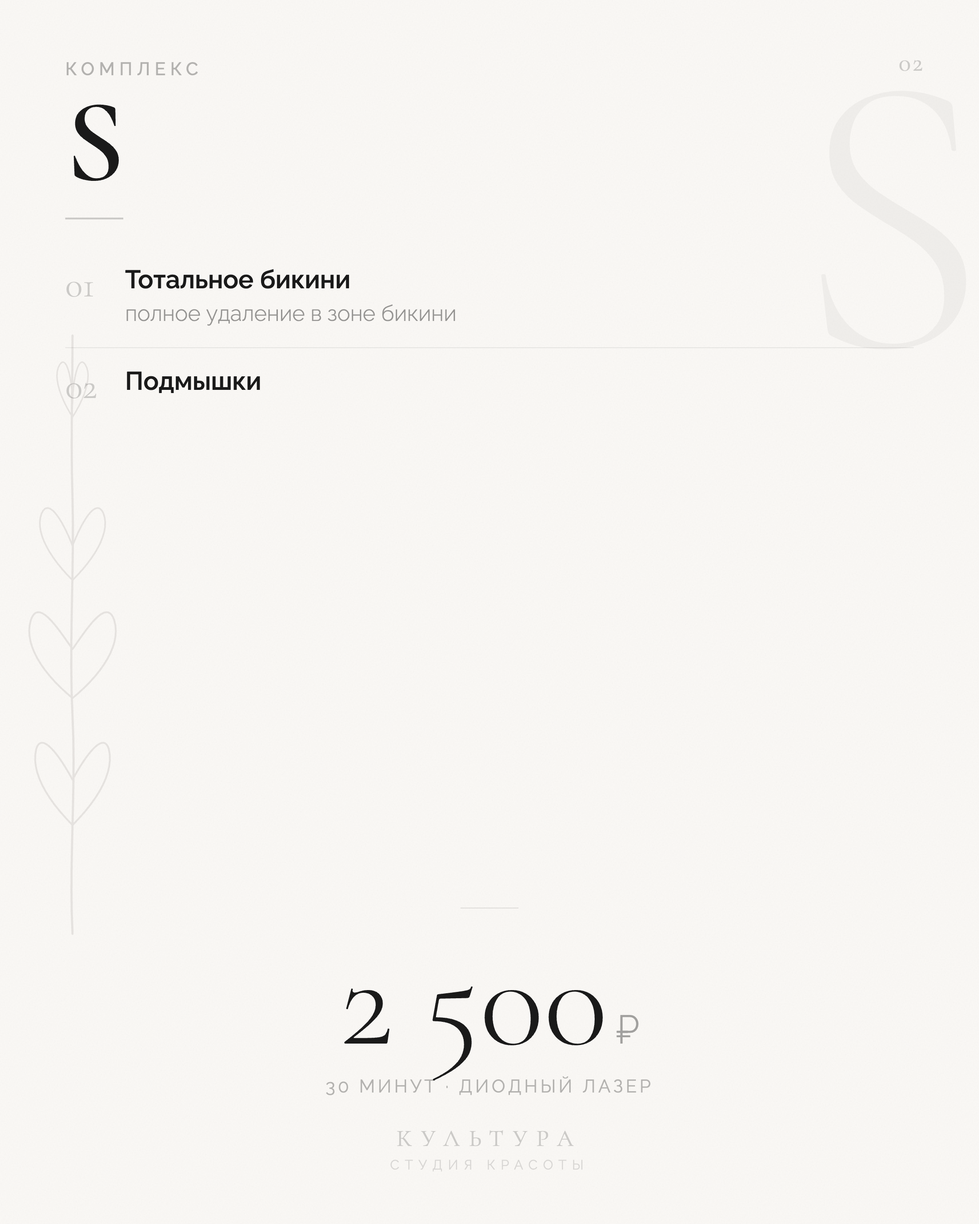
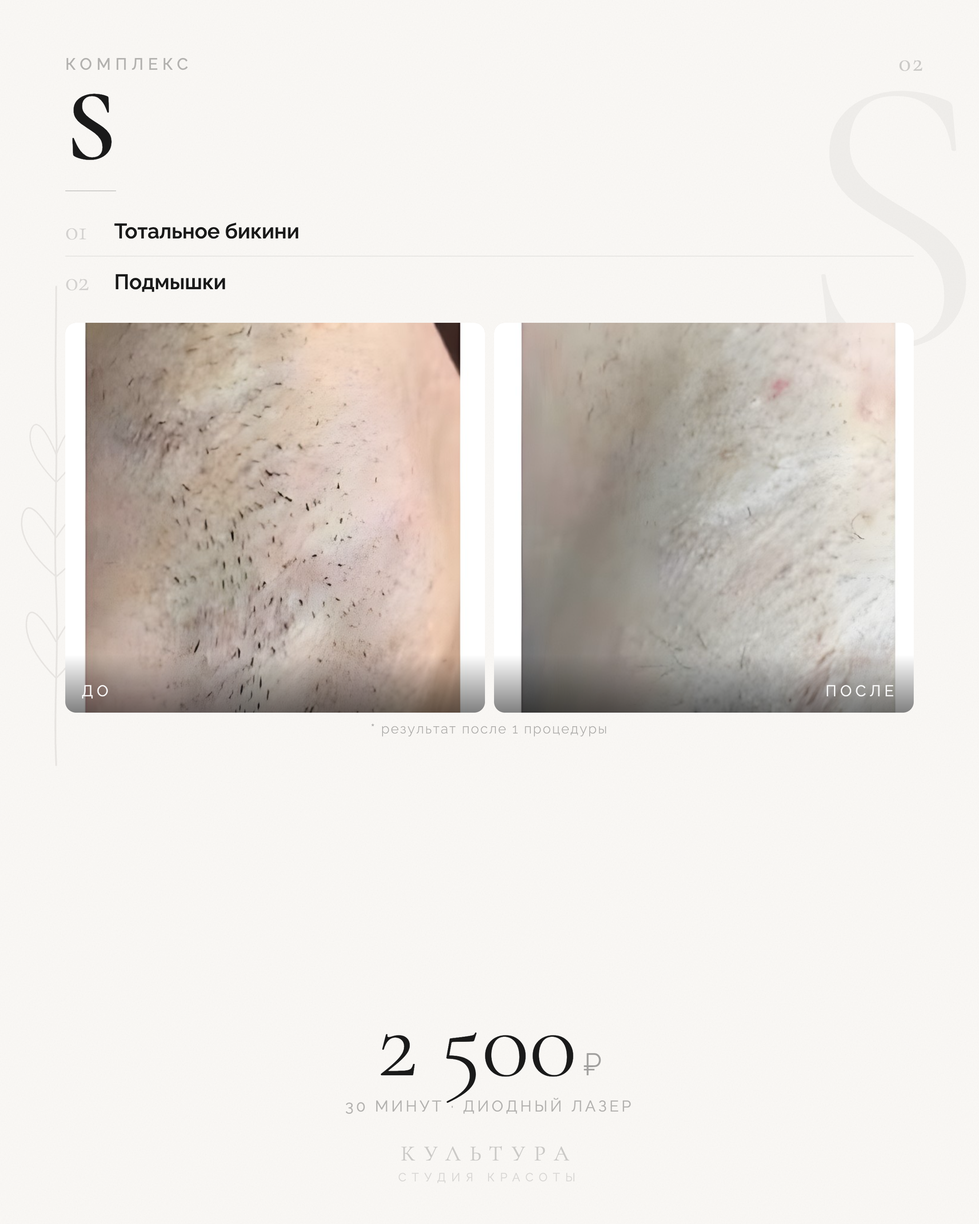
feat: add before/after photos to carousel slides 02/03/04
- assets/images/before-after/: cropped + esrgan-enhanced originals
- slides 02/03/04: before/after photo pair with До/После labels,
  footnote (* результат после X процедур), compact zone list
- tools/upscale-esrgan.mjs: CLI upscaler via fal.ai Real-ESRGAN

Photo mapping:
  slide 02 (S) ← подмышки, 1 процедура
  slide 03 (M) ← голени, 6 процедур
  slide 04 (L) ← подмышки, 4 процедуры

Changed region(s): [[0.062, 0.1867, 0.9306, 0.5911], [0.3412, 0.8089, 0.6514, 0.9644], [0.062, 0.0311, 0.1861, 0.1556]]

diff --git a/projects/BeautyCulture_DariaSopkina/posts/drafts/22_04_2026-1/kultura_slide_04.html b/projects/BeautyCulture_DariaSopkina/posts/drafts/22_04_2026-1/kultura_slide_04.html
@@ -14,7 +14,7 @@ body { font-family: 'Raleway', sans-serif; background: #FAF8F5; }
   </svg>
 
   <!-- Botanical left -->
-  <svg width="100" height="700" viewBox="0 0 50 350" style="position:absolute;left:30px;top:350px;opacity:0.10;pointer-events:none;z-index:1" xmlns="http://www.w3.org/2000/svg">
+  <svg width="80" height="560" viewBox="0 0 50 350" style="position:absolute;left:22px;top:300px;opacity:0.09;pointer-events:none;z-index:1" xmlns="http://www.w3.org/2000/svg">
     <path d="M25 340 C23 300 27 260 25 220 C23 180 26 140 25 100 C24 70 25 40 25 10" stroke="#3a3028" stroke-width="1.2" fill="none" stroke-linecap="round"/>
     <path d="M25 280 C10 265 2 250 5 238 C8 228 18 242 25 255" stroke="#3a3028" stroke-width="1" fill="none" stroke-linecap="round"/>
     <path d="M25 280 C40 265 48 250 45 238 C42 228 32 242 25 255" stroke="#3a3028" stroke-width="1" fill="none" stroke-linecap="round"/>
@@ -22,8 +22,6 @@ body { font-family: 'Raleway', sans-serif; background: #FAF8F5; }
     <path d="M25 210 C42 196 52 180 48 167 C44 155 34 170 25 183" stroke="#3a3028" stroke-width="1" fill="none" stroke-linecap="round"/>
     <path d="M25 145 C12 132 4 118 8 108 C12 99 20 113 25 126" stroke="#3a3028" stroke-width="0.9" fill="none" stroke-linecap="round"/>
     <path d="M25 145 C38 132 46 118 42 108 C38 99 30 113 25 126" stroke="#3a3028" stroke-width="0.9" fill="none" stroke-linecap="round"/>
-    <path d="M25 55 C18 44 14 32 18 26 C22 20 25 36 25 48" stroke="#3a3028" stroke-width="0.8" fill="none" stroke-linecap="round"/>
-    <path d="M25 55 C32 44 36 32 32 26 C28 20 25 36 25 48" stroke="#3a3028" stroke-width="0.8" fill="none" stroke-linecap="round"/>
   </svg>
 
   <!-- Ghost letter -->
@@ -33,54 +31,71 @@ body { font-family: 'Raleway', sans-serif; background: #FAF8F5; }
   <div style="position:absolute;top:52px;right:60px;font-family:'Cormorant Garamond',serif;font-size:28px;color:rgba(0,0,0,0.18);letter-spacing:2px;z-index:2">04</div>
 
   <!-- Content -->
-  <div style="position:absolute;inset:0;padding:64px 72px 130px;display:flex;flex-direction:column;z-index:2">
+  <div style="position:absolute;top:60px;left:72px;right:72px;bottom:120px;display:flex;flex-direction:column;z-index:2">
 
     <!-- Heading -->
-    <div style="font-family:'Raleway',sans-serif;font-size:20px;font-weight:500;letter-spacing:5px;text-transform:uppercase;color:rgba(0,0,0,0.28);margin-bottom:12px">Комплекс</div>
-    <div style="font-family:'Cormorant Garamond',serif;font-size:130px;font-weight:600;line-height:0.88;letter-spacing:2px;color:#1a1a1a;margin-bottom:0">L</div>
+    <div style="font-family:'Raleway',sans-serif;font-size:18px;font-weight:500;letter-spacing:5px;text-transform:uppercase;color:rgba(0,0,0,0.28);margin-bottom:10px">Комплекс</div>
+    <div style="font-family:'Cormorant Garamond',serif;font-size:112px;font-weight:600;line-height:0.88;letter-spacing:2px;color:#1a1a1a">L</div>
 
     <!-- Divider -->
-    <div style="width:64px;height:1.5px;background:rgba(0,0,0,0.18);margin:26px 0 30px"></div>
+    <div style="width:56px;height:1.5px;background:rgba(0,0,0,0.18);margin:20px 0 16px"></div>
 
-    <!-- Zones -->
-    <ul style="list-style:none;">
-      <li style="display:flex;align-items:flex-start;gap:24px;padding:20px 0;border-bottom:1px solid rgba(0,0,0,0.07);">
-        <span style="font-family:'Cormorant Garamond',serif;font-size:40px;font-weight:300;color:rgba(0,0,0,0.18);line-height:1;min-width:42px;padding-top:2px">01</span>
-        <div>
-          <div style="font-family:'Raleway',sans-serif;font-size:28px;font-weight:600;color:#1a1a1a;line-height:1.2">Тотальное бикини</div>
-        </div>
+    <!-- Zones compact -->
+    <ul style="list-style:none;margin-bottom:18px">
+      <li style="display:flex;align-items:center;gap:20px;padding:7px 0;border-bottom:1px solid rgba(0,0,0,0.07);">
+        <span style="font-family:'Cormorant Garamond',serif;font-size:30px;font-weight:300;color:rgba(0,0,0,0.15);min-width:34px">01</span>
+        <div style="font-family:'Raleway',sans-serif;font-size:23px;font-weight:600;color:#1a1a1a">Тотальное бикини</div>
       </li>
-      <li style="display:flex;align-items:flex-start;gap:24px;padding:20px 0;border-bottom:1px solid rgba(0,0,0,0.07);">
-        <span style="font-family:'Cormorant Garamond',serif;font-size:40px;font-weight:300;color:rgba(0,0,0,0.18);line-height:1;min-width:42px;padding-top:2px">02</span>
-        <div>
-          <div style="font-family:'Raleway',sans-serif;font-size:28px;font-weight:600;color:#1a1a1a;line-height:1.2">Подмышки</div>
-        </div>
+      <li style="display:flex;align-items:center;gap:20px;padding:7px 0;border-bottom:1px solid rgba(0,0,0,0.07);">
+        <span style="font-family:'Cormorant Garamond',serif;font-size:30px;font-weight:300;color:rgba(0,0,0,0.15);min-width:34px">02</span>
+        <div style="font-family:'Raleway',sans-serif;font-size:23px;font-weight:600;color:#1a1a1a">Подмышки</div>
       </li>
-      <li style="display:flex;align-items:flex-start;gap:24px;padding:20px 0;">
-        <span style="font-family:'Cormorant Garamond',serif;font-size:40px;font-weight:300;color:rgba(0,0,0,0.18);line-height:1;min-width:42px;padding-top:2px">03</span>
+      <li style="display:flex;align-items:center;gap:20px;padding:7px 0;">
+        <span style="font-family:'Cormorant Garamond',serif;font-size:30px;font-weight:300;color:rgba(0,0,0,0.15);min-width:34px">03</span>
         <div>
-          <div style="font-family:'Raleway',sans-serif;font-size:28px;font-weight:600;color:#1a1a1a;line-height:1.2">Ноги полностью</div>
-          <div style="font-size:24px;font-weight:300;color:rgba(0,0,0,0.4);margin-top:4px;line-height:1.4">бёдра + голени</div>
+          <div style="font-family:'Raleway',sans-serif;font-size:23px;font-weight:600;color:#1a1a1a">Ноги полностью</div>
+          <div style="font-size:19px;font-weight:300;color:rgba(0,0,0,0.38)">бёдра + голени</div>
         </div>
       </li>
     </ul>
 
-    <!-- Price — centered, dominant -->
-    <div style="margin-top:auto;text-align:center;padding-bottom:10px;">
-      <div style="width:64px;height:1px;background:rgba(0,0,0,0.10);margin:0 auto 28px"></div>
-      <div style="display:flex;align-items:baseline;gap:10px;justify-content:center">
-        <span style="font-family:'Cormorant Garamond',serif;font-size:148px;font-weight:300;color:#1a1a1a;line-height:1">3 700</span>
-        <span style="font-family:'Raleway',sans-serif;font-size:44px;font-weight:300;color:rgba(0,0,0,0.35)">₽</span>
+    <!-- Before / After photos -->
+    <div style="display:flex;gap:10px;height:390px;flex-shrink:0">
+
+      <!-- До -->
+      <div style="flex:1;position:relative;border-radius:12px;overflow:hidden;background:#e0d8d0">
+        <img src="./photo-04.jpg" style="position:absolute;top:0;left:0;width:200%;height:100%;object-fit:cover;object-position:left center;display:block">
+        <div style="position:absolute;bottom:0;left:0;right:0;height:64px;background:linear-gradient(to top,rgba(0,0,0,0.5),transparent)"></div>
+        <div style="position:absolute;bottom:14px;left:18px;font-family:'Raleway',sans-serif;font-size:17px;font-weight:400;letter-spacing:4px;text-transform:uppercase;color:rgba(255,255,255,0.92)">До</div>
       </div>
-      <div style="font-family:'Raleway',sans-serif;font-size:20px;font-weight:400;letter-spacing:3px;text-transform:uppercase;color:rgba(0,0,0,0.28);margin-top:8px">1 час · диодный лазер</div>
+
+      <!-- После -->
+      <div style="flex:1;position:relative;border-radius:12px;overflow:hidden;background:#e0d8d0">
+        <img src="./photo-04.jpg" style="position:absolute;top:0;right:0;width:200%;height:100%;object-fit:cover;object-position:right center;display:block">
+        <div style="position:absolute;bottom:0;left:0;right:0;height:64px;background:linear-gradient(to top,rgba(0,0,0,0.5),transparent)"></div>
+        <div style="position:absolute;bottom:14px;right:18px;font-family:'Raleway',sans-serif;font-size:17px;font-weight:400;letter-spacing:4px;text-transform:uppercase;color:rgba(255,255,255,0.92)">После</div>
+      </div>
+
+    </div>
+
+    <!-- Footnote -->
+    <div style="margin-top:9px;text-align:center;font-family:'Raleway',sans-serif;font-size:15px;font-weight:300;letter-spacing:1.5px;color:rgba(0,0,0,0.30)">* результат после 4 процедур</div>
+
+    <!-- Price -->
+    <div style="text-align:center;margin-top:auto">
+      <div style="display:flex;align-items:baseline;gap:8px;justify-content:center">
+        <span style="font-family:'Cormorant Garamond',serif;font-size:110px;font-weight:300;color:#1a1a1a;line-height:1">3 700</span>
+        <span style="font-family:'Raleway',sans-serif;font-size:34px;font-weight:300;color:rgba(0,0,0,0.35)">₽</span>
+      </div>
+      <div style="font-family:'Raleway',sans-serif;font-size:17px;font-weight:400;letter-spacing:3px;text-transform:uppercase;color:rgba(0,0,0,0.28);margin-top:4px">1 час · диодный лазер</div>
     </div>
 
   </div>
 
   <!-- Footer -->
-  <div style="position:absolute;bottom:56px;left:0;right:0;text-align:center;font-family:'Cormorant Garamond',serif;font-size:26px;font-weight:400;letter-spacing:10px;text-transform:uppercase;color:rgba(0,0,0,0.18);display:flex;flex-direction:column;align-items:center;gap:5px;z-index:2">
+  <div style="position:absolute;bottom:44px;left:0;right:0;text-align:center;font-family:'Cormorant Garamond',serif;font-size:24px;font-weight:400;letter-spacing:10px;text-transform:uppercase;color:rgba(0,0,0,0.18);display:flex;flex-direction:column;align-items:center;gap:4px;z-index:2">
     КУЛЬТУРА
-    <span style="font-family:'Raleway',sans-serif;font-size:15px;letter-spacing:6px;color:rgba(0,0,0,0.13)">СТУДИЯ КРАСОТЫ</span>
+    <span style="font-family:'Raleway',sans-serif;font-size:13px;letter-spacing:6px;color:rgba(0,0,0,0.13)">СТУДИЯ КРАСОТЫ</span>
   </div>
 
 </div>

diff --git a/projects/BeautyCulture_DariaSopkina/posts/drafts/22_04_2026-1/kultura_slide_03.html b/projects/BeautyCulture_DariaSopkina/posts/drafts/22_04_2026-1/kultura_slide_03.html
@@ -14,7 +14,7 @@ body { font-family: 'Raleway', sans-serif; background: #FAF8F5; }
   </svg>
 
   <!-- Botanical left -->
-  <svg width="100" height="700" viewBox="0 0 50 350" style="position:absolute;left:30px;top:350px;opacity:0.10;pointer-events:none;z-index:1" xmlns="http://www.w3.org/2000/svg">
+  <svg width="80" height="560" viewBox="0 0 50 350" style="position:absolute;left:22px;top:300px;opacity:0.09;pointer-events:none;z-index:1" xmlns="http://www.w3.org/2000/svg">
     <path d="M25 340 C23 300 27 260 25 220 C23 180 26 140 25 100 C24 70 25 40 25 10" stroke="#3a3028" stroke-width="1.2" fill="none" stroke-linecap="round"/>
     <path d="M25 280 C10 265 2 250 5 238 C8 228 18 242 25 255" stroke="#3a3028" stroke-width="1" fill="none" stroke-linecap="round"/>
     <path d="M25 280 C40 265 48 250 45 238 C42 228 32 242 25 255" stroke="#3a3028" stroke-width="1" fill="none" stroke-linecap="round"/>
@@ -22,8 +22,6 @@ body { font-family: 'Raleway', sans-serif; background: #FAF8F5; }
     <path d="M25 210 C42 196 52 180 48 167 C44 155 34 170 25 183" stroke="#3a3028" stroke-width="1" fill="none" stroke-linecap="round"/>
     <path d="M25 145 C12 132 4 118 8 108 C12 99 20 113 25 126" stroke="#3a3028" stroke-width="0.9" fill="none" stroke-linecap="round"/>
     <path d="M25 145 C38 132 46 118 42 108 C38 99 30 113 25 126" stroke="#3a3028" stroke-width="0.9" fill="none" stroke-linecap="round"/>
-    <path d="M25 55 C18 44 14 32 18 26 C22 20 25 36 25 48" stroke="#3a3028" stroke-width="0.8" fill="none" stroke-linecap="round"/>
-    <path d="M25 55 C32 44 36 32 32 26 C28 20 25 36 25 48" stroke="#3a3028" stroke-width="0.8" fill="none" stroke-linecap="round"/>
   </svg>
 
   <!-- Ghost letter -->
@@ -33,54 +31,68 @@ body { font-family: 'Raleway', sans-serif; background: #FAF8F5; }
   <div style="position:absolute;top:52px;right:60px;font-family:'Cormorant Garamond',serif;font-size:28px;color:rgba(0,0,0,0.18);letter-spacing:2px;z-index:2">03</div>
 
   <!-- Content -->
-  <div style="position:absolute;inset:0;padding:64px 72px 130px;display:flex;flex-direction:column;z-index:2">
+  <div style="position:absolute;top:60px;left:72px;right:72px;bottom:120px;display:flex;flex-direction:column;z-index:2">
 
     <!-- Heading -->
-    <div style="font-family:'Raleway',sans-serif;font-size:20px;font-weight:500;letter-spacing:5px;text-transform:uppercase;color:rgba(0,0,0,0.28);margin-bottom:12px">Комплекс</div>
-    <div style="font-family:'Cormorant Garamond',serif;font-size:130px;font-weight:600;line-height:0.88;letter-spacing:2px;color:#1a1a1a;margin-bottom:0">M</div>
+    <div style="font-family:'Raleway',sans-serif;font-size:18px;font-weight:500;letter-spacing:5px;text-transform:uppercase;color:rgba(0,0,0,0.28);margin-bottom:10px">Комплекс</div>
+    <div style="font-family:'Cormorant Garamond',serif;font-size:112px;font-weight:600;line-height:0.88;letter-spacing:2px;color:#1a1a1a">M</div>
 
     <!-- Divider -->
-    <div style="width:64px;height:1.5px;background:rgba(0,0,0,0.18);margin:26px 0 30px"></div>
+    <div style="width:56px;height:1.5px;background:rgba(0,0,0,0.18);margin:20px 0 16px"></div>
 
-    <!-- Zones -->
-    <ul style="list-style:none;">
-      <li style="display:flex;align-items:flex-start;gap:24px;padding:20px 0;border-bottom:1px solid rgba(0,0,0,0.07);">
-        <span style="font-family:'Cormorant Garamond',serif;font-size:40px;font-weight:300;color:rgba(0,0,0,0.18);line-height:1;min-width:42px;padding-top:2px">01</span>
-        <div>
-          <div style="font-family:'Raleway',sans-serif;font-size:28px;font-weight:600;color:#1a1a1a;line-height:1.2">Тотальное бикини</div>
-        </div>
+    <!-- Zones compact -->
+    <ul style="list-style:none;margin-bottom:18px">
+      <li style="display:flex;align-items:center;gap:20px;padding:7px 0;border-bottom:1px solid rgba(0,0,0,0.07);">
+        <span style="font-family:'Cormorant Garamond',serif;font-size:30px;font-weight:300;color:rgba(0,0,0,0.15);min-width:34px">01</span>
+        <div style="font-family:'Raleway',sans-serif;font-size:23px;font-weight:600;color:#1a1a1a">Тотальное бикини</div>
       </li>
-      <li style="display:flex;align-items:flex-start;gap:24px;padding:20px 0;border-bottom:1px solid rgba(0,0,0,0.07);">
-        <span style="font-family:'Cormorant Garamond',serif;font-size:40px;font-weight:300;color:rgba(0,0,0,0.18);line-height:1;min-width:42px;padding-top:2px">02</span>
-        <div>
-          <div style="font-family:'Raleway',sans-serif;font-size:28px;font-weight:600;color:#1a1a1a;line-height:1.2">Подмышки</div>
-        </div>
+      <li style="display:flex;align-items:center;gap:20px;padding:7px 0;border-bottom:1px solid rgba(0,0,0,0.07);">
+        <span style="font-family:'Cormorant Garamond',serif;font-size:30px;font-weight:300;color:rgba(0,0,0,0.15);min-width:34px">02</span>
+        <div style="font-family:'Raleway',sans-serif;font-size:23px;font-weight:600;color:#1a1a1a">Подмышки</div>
       </li>
-      <li style="display:flex;align-items:flex-start;gap:24px;padding:20px 0;">
-        <span style="font-family:'Cormorant Garamond',serif;font-size:40px;font-weight:300;color:rgba(0,0,0,0.18);line-height:1;min-width:42px;padding-top:2px">03</span>
-        <div>
-          <div style="font-family:'Raleway',sans-serif;font-size:28px;font-weight:600;color:#1a1a1a;line-height:1.2">Голени</div>
-          <div style="font-size:24px;font-weight:300;color:rgba(0,0,0,0.4);margin-top:4px;line-height:1.4">с зоной коленей</div>
-        </div>
+      <li style="display:flex;align-items:center;gap:20px;padding:7px 0;">
+        <span style="font-family:'Cormorant Garamond',serif;font-size:30px;font-weight:300;color:rgba(0,0,0,0.15);min-width:34px">03</span>
+        <div style="font-family:'Raleway',sans-serif;font-size:23px;font-weight:600;color:#1a1a1a">Голени</div>
       </li>
     </ul>
 
-    <!-- Price — centered, dominant -->
-    <div style="margin-top:auto;text-align:center;padding-bottom:10px;">
-      <div style="width:64px;height:1px;background:rgba(0,0,0,0.10);margin:0 auto 28px"></div>
-      <div style="display:flex;align-items:baseline;gap:10px;justify-content:center">
-        <span style="font-family:'Cormorant Garamond',serif;font-size:148px;font-weight:300;color:#1a1a1a;line-height:1">3 000</span>
-        <span style="font-family:'Raleway',sans-serif;font-size:44px;font-weight:300;color:rgba(0,0,0,0.35)">₽</span>
+    <!-- Before / After photos -->
+    <div style="display:flex;gap:10px;height:400px;flex-shrink:0">
+
+      <!-- До -->
+      <div style="flex:1;position:relative;border-radius:12px;overflow:hidden;background:#e0d8d0">
+        <img src="./photo-03.jpg" style="position:absolute;top:0;left:0;width:200%;height:100%;object-fit:cover;object-position:left center;display:block">
+        <div style="position:absolute;bottom:0;left:0;right:0;height:64px;background:linear-gradient(to top,rgba(0,0,0,0.5),transparent)"></div>
+        <div style="position:absolute;bottom:14px;left:18px;font-family:'Raleway',sans-serif;font-size:17px;font-weight:400;letter-spacing:4px;text-transform:uppercase;color:rgba(255,255,255,0.92)">До</div>
       </div>
-      <div style="font-family:'Raleway',sans-serif;font-size:20px;font-weight:400;letter-spacing:3px;text-transform:uppercase;color:rgba(0,0,0,0.28);margin-top:8px">45 минут · диодный лазер</div>
+
+      <!-- После -->
+      <div style="flex:1;position:relative;border-radius:12px;overflow:hidden;background:#e0d8d0">
+        <img src="./photo-03.jpg" style="position:absolute;top:0;right:0;width:200%;height:100%;object-fit:cover;object-position:right center;display:block">
+        <div style="position:absolute;bottom:0;left:0;right:0;height:64px;background:linear-gradient(to top,rgba(0,0,0,0.5),transparent)"></div>
+        <div style="position:absolute;bottom:14px;right:18px;font-family:'Raleway',sans-serif;font-size:17px;font-weight:400;letter-spacing:4px;text-transform:uppercase;color:rgba(255,255,255,0.92)">После</div>
+      </div>
+
+    </div>
+
+    <!-- Footnote -->
+    <div style="margin-top:9px;text-align:center;font-family:'Raleway',sans-serif;font-size:15px;font-weight:300;letter-spacing:1.5px;color:rgba(0,0,0,0.30)">* результат после 6 процедур</div>
+
+    <!-- Price -->
+    <div style="text-align:center;margin-top:auto">
+      <div style="display:flex;align-items:baseline;gap:8px;justify-content:center">
+        <span style="font-family:'Cormorant Garamond',serif;font-size:110px;font-weight:300;color:#1a1a1a;line-height:1">3 000</span>
+        <span style="font-family:'Raleway',sans-serif;font-size:34px;font-weight:300;color:rgba(0,0,0,0.35)">₽</span>
+      </div>
+      <div style="font-family:'Raleway',sans-serif;font-size:17px;font-weight:400;letter-spacing:3px;text-transform:uppercase;color:rgba(0,0,0,0.28);margin-top:4px">45 минут · диодный лазер</div>
     </div>
 
   </div>
 
   <!-- Footer -->
-  <div style="position:absolute;bottom:56px;left:0;right:0;text-align:center;font-family:'Cormorant Garamond',serif;font-size:26px;font-weight:400;letter-spacing:10px;text-transform:uppercase;color:rgba(0,0,0,0.18);display:flex;flex-direction:column;align-items:center;gap:5px;z-index:2">
+  <div style="position:absolute;bottom:44px;left:0;right:0;text-align:center;font-family:'Cormorant Garamond',serif;font-size:24px;font-weight:400;letter-spacing:10px;text-transform:uppercase;color:rgba(0,0,0,0.18);display:flex;flex-direction:column;align-items:center;gap:4px;z-index:2">
     КУЛЬТУРА
-    <span style="font-family:'Raleway',sans-serif;font-size:15px;letter-spacing:6px;color:rgba(0,0,0,0.13)">СТУДИЯ КРАСОТЫ</span>
+    <span style="font-family:'Raleway',sans-serif;font-size:13px;letter-spacing:6px;color:rgba(0,0,0,0.13)">СТУДИЯ КРАСОТЫ</span>
   </div>
 
 </div>

diff --git a/projects/BeautyCulture_DariaSopkina/posts/drafts/22_04_2026-1/kultura_slide_02.html b/projects/BeautyCulture_DariaSopkina/posts/drafts/22_04_2026-1/kultura_slide_02.html
@@ -14,7 +14,7 @@ body { font-family: 'Raleway', sans-serif; background: #FAF8F5; }
   </svg>
 
   <!-- Botanical left -->
-  <svg width="100" height="700" viewBox="0 0 50 350" style="position:absolute;left:30px;top:350px;opacity:0.10;pointer-events:none;z-index:1" xmlns="http://www.w3.org/2000/svg">
+  <svg width="80" height="560" viewBox="0 0 50 350" style="position:absolute;left:22px;top:300px;opacity:0.09;pointer-events:none;z-index:1" xmlns="http://www.w3.org/2000/svg">
     <path d="M25 340 C23 300 27 260 25 220 C23 180 26 140 25 100 C24 70 25 40 25 10" stroke="#3a3028" stroke-width="1.2" fill="none" stroke-linecap="round"/>
     <path d="M25 280 C10 265 2 250 5 238 C8 228 18 242 25 255" stroke="#3a3028" stroke-width="1" fill="none" stroke-linecap="round"/>
     <path d="M25 280 C40 265 48 250 45 238 C42 228 32 242 25 255" stroke="#3a3028" stroke-width="1" fill="none" stroke-linecap="round"/>
@@ -22,8 +22,6 @@ body { font-family: 'Raleway', sans-serif; background: #FAF8F5; }
     <path d="M25 210 C42 196 52 180 48 167 C44 155 34 170 25 183" stroke="#3a3028" stroke-width="1" fill="none" stroke-linecap="round"/>
     <path d="M25 145 C12 132 4 118 8 108 C12 99 20 113 25 126" stroke="#3a3028" stroke-width="0.9" fill="none" stroke-linecap="round"/>
     <path d="M25 145 C38 132 46 118 42 108 C38 99 30 113 25 126" stroke="#3a3028" stroke-width="0.9" fill="none" stroke-linecap="round"/>
-    <path d="M25 55 C18 44 14 32 18 26 C22 20 25 36 25 48" stroke="#3a3028" stroke-width="0.8" fill="none" stroke-linecap="round"/>
-    <path d="M25 55 C32 44 36 32 32 26 C28 20 25 36 25 48" stroke="#3a3028" stroke-width="0.8" fill="none" stroke-linecap="round"/>
   </svg>
 
   <!-- Ghost letter -->
@@ -33,48 +31,64 @@ body { font-family: 'Raleway', sans-serif; background: #FAF8F5; }
   <div style="position:absolute;top:52px;right:60px;font-family:'Cormorant Garamond',serif;font-size:28px;color:rgba(0,0,0,0.18);letter-spacing:2px;z-index:2">02</div>
 
   <!-- Content -->
-  <div style="position:absolute;inset:0;padding:64px 72px 130px;display:flex;flex-direction:column;z-index:2">
+  <div style="position:absolute;top:60px;left:72px;right:72px;bottom:120px;display:flex;flex-direction:column;z-index:2">
 
     <!-- Heading -->
-    <div style="font-family:'Raleway',sans-serif;font-size:20px;font-weight:500;letter-spacing:5px;text-transform:uppercase;color:rgba(0,0,0,0.28);margin-bottom:12px">Комплекс</div>
-    <div style="font-family:'Cormorant Garamond',serif;font-size:130px;font-weight:600;line-height:0.88;letter-spacing:2px;color:#1a1a1a;margin-bottom:0">S</div>
+    <div style="font-family:'Raleway',sans-serif;font-size:18px;font-weight:500;letter-spacing:5px;text-transform:uppercase;color:rgba(0,0,0,0.28);margin-bottom:10px">Комплекс</div>
+    <div style="font-family:'Cormorant Garamond',serif;font-size:112px;font-weight:600;line-height:0.88;letter-spacing:2px;color:#1a1a1a">S</div>
 
     <!-- Divider -->
-    <div style="width:64px;height:1.5px;background:rgba(0,0,0,0.18);margin:26px 0 30px"></div>
+    <div style="width:56px;height:1.5px;background:rgba(0,0,0,0.18);margin:20px 0 16px"></div>
 
-    <!-- Zones -->
-    <ul style="list-style:none;">
-      <li style="display:flex;align-items:flex-start;gap:24px;padding:20px 0;border-bottom:1px solid rgba(0,0,0,0.07);">
-        <span style="font-family:'Cormorant Garamond',serif;font-size:40px;font-weight:300;color:rgba(0,0,0,0.18);line-height:1;min-width:42px;padding-top:2px">01</span>
-        <div>
-          <div style="font-family:'Raleway',sans-serif;font-size:28px;font-weight:600;color:#1a1a1a;line-height:1.2">Тотальное бикини</div>
-          <div style="font-size:24px;font-weight:300;color:rgba(0,0,0,0.4);margin-top:4px;line-height:1.4">полное удаление в зоне бикини</div>
-        </div>
+    <!-- Zones compact -->
+    <ul style="list-style:none;margin-bottom:18px">
+      <li style="display:flex;align-items:center;gap:20px;padding:9px 0;border-bottom:1px solid rgba(0,0,0,0.07);">
+        <span style="font-family:'Cormorant Garamond',serif;font-size:30px;font-weight:300;color:rgba(0,0,0,0.15);min-width:34px">01</span>
+        <div style="font-family:'Raleway',sans-serif;font-size:23px;font-weight:600;color:#1a1a1a">Тотальное бикини</div>
       </li>
-      <li style="display:flex;align-items:flex-start;gap:24px;padding:20px 0;">
-        <span style="font-family:'Cormorant Garamond',serif;font-size:40px;font-weight:300;color:rgba(0,0,0,0.18);line-height:1;min-width:42px;padding-top:2px">02</span>
-        <div>
-          <div style="font-family:'Raleway',sans-serif;font-size:28px;font-weight:600;color:#1a1a1a;line-height:1.2">Подмышки</div>
-        </div>
+      <li style="display:flex;align-items:center;gap:20px;padding:9px 0;">
+        <span style="font-family:'Cormorant Garamond',serif;font-size:30px;font-weight:300;color:rgba(0,0,0,0.15);min-width:34px">02</span>
+        <div style="font-family:'Raleway',sans-serif;font-size:23px;font-weight:600;color:#1a1a1a">Подмышки</div>
       </li>
     </ul>
 
-    <!-- Price — centered, dominant -->
-    <div style="margin-top:auto;text-align:center;padding-bottom:10px;">
-      <div style="width:64px;height:1px;background:rgba(0,0,0,0.10);margin:0 auto 28px"></div>
-      <div style="display:flex;align-items:baseline;gap:10px;justify-content:center">
-        <span style="font-family:'Cormorant Garamond',serif;font-size:148px;font-weight:300;color:#1a1a1a;line-height:1">2 500</span>
-        <span style="font-family:'Raleway',sans-serif;font-size:44px;font-weight:300;color:rgba(0,0,0,0.35)">₽</span>
+    <!-- Before / After photos -->
+    <div style="display:flex;gap:10px;height:430px;flex-shrink:0">
+
+      <!-- До -->
+      <div style="flex:1;position:relative;border-radius:12px;overflow:hidden;background:#e0d8d0">
+        <img src="./photo-02.jpg" style="position:absolute;top:0;left:0;width:200%;height:100%;object-fit:cover;object-position:left center;display:block">
+        <div style="position:absolute;bottom:0;left:0;right:0;height:64px;background:linear-gradient(to top,rgba(0,0,0,0.5),transparent)"></div>
+        <div style="position:absolute;bottom:14px;left:18px;font-family:'Raleway',sans-serif;font-size:17px;font-weight:400;letter-spacing:4px;text-transform:uppercase;color:rgba(255,255,255,0.92)">До</div>
       </div>
-      <div style="font-family:'Raleway',sans-serif;font-size:20px;font-weight:400;letter-spacing:3px;text-transform:uppercase;color:rgba(0,0,0,0.28);margin-top:8px">30 минут · диодный лазер</div>
+
+      <!-- После -->
+      <div style="flex:1;position:relative;border-radius:12px;overflow:hidden;background:#e0d8d0">
+        <img src="./photo-02.jpg" style="position:absolute;top:0;right:0;width:200%;height:100%;object-fit:cover;object-position:right center;display:block">
+        <div style="position:absolute;bottom:0;left:0;right:0;height:64px;background:linear-gradient(to top,rgba(0,0,0,0.5),transparent)"></div>
+        <div style="position:absolute;bottom:14px;right:18px;font-family:'Raleway',sans-serif;font-size:17px;font-weight:400;letter-spacing:4px;text-transform:uppercase;color:rgba(255,255,255,0.92)">После</div>
+      </div>
+
+    </div>
+
+    <!-- Footnote -->
+    <div style="margin-top:9px;text-align:center;font-family:'Raleway',sans-serif;font-size:15px;font-weight:300;letter-spacing:1.5px;color:rgba(0,0,0,0.30)">* результат после 1 процедуры</div>
+
+    <!-- Price -->
+    <div style="text-align:center;margin-top:auto">
+      <div style="display:flex;align-items:baseline;gap:8px;justify-content:center">
+        <span style="font-family:'Cormorant Garamond',serif;font-size:110px;font-weight:300;color:#1a1a1a;line-height:1">2 500</span>
+        <span style="font-family:'Raleway',sans-serif;font-size:34px;font-weight:300;color:rgba(0,0,0,0.35)">₽</span>
+      </div>
+      <div style="font-family:'Raleway',sans-serif;font-size:17px;font-weight:400;letter-spacing:3px;text-transform:uppercase;color:rgba(0,0,0,0.28);margin-top:4px">30 минут · диодный лазер</div>
     </div>
 
   </div>
 
   <!-- Footer -->
-  <div style="position:absolute;bottom:56px;left:0;right:0;text-align:center;font-family:'Cormorant Garamond',serif;font-size:26px;font-weight:400;letter-spacing:10px;text-transform:uppercase;color:rgba(0,0,0,0.18);display:flex;flex-direction:column;align-items:center;gap:5px;z-index:2">
+  <div style="position:absolute;bottom:44px;left:0;right:0;text-align:center;font-family:'Cormorant Garamond',serif;font-size:24px;font-weight:400;letter-spacing:10px;text-transform:uppercase;color:rgba(0,0,0,0.18);display:flex;flex-direction:column;align-items:center;gap:4px;z-index:2">
     КУЛЬТУРА
-    <span style="font-family:'Raleway',sans-serif;font-size:15px;letter-spacing:6px;color:rgba(0,0,0,0.13)">СТУДИЯ КРАСОТЫ</span>
+    <span style="font-family:'Raleway',sans-serif;font-size:13px;letter-spacing:6px;color:rgba(0,0,0,0.13)">СТУДИЯ КРАСОТЫ</span>
   </div>
 
 </div>
